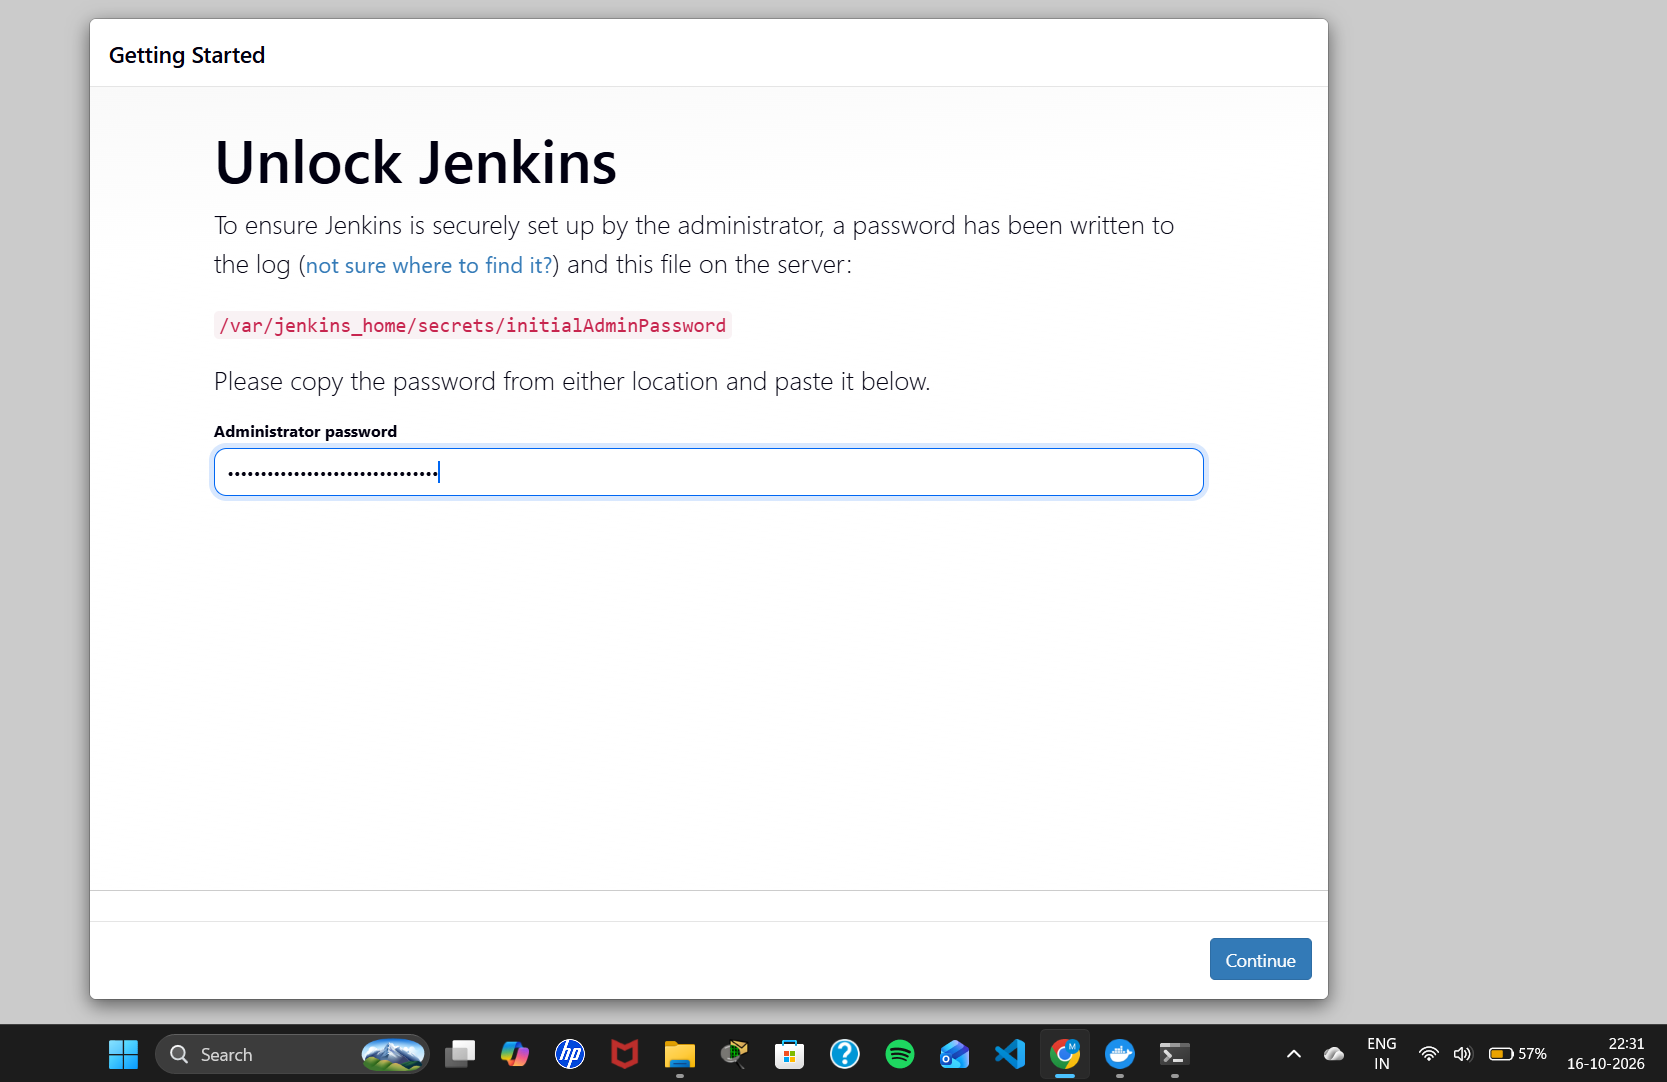
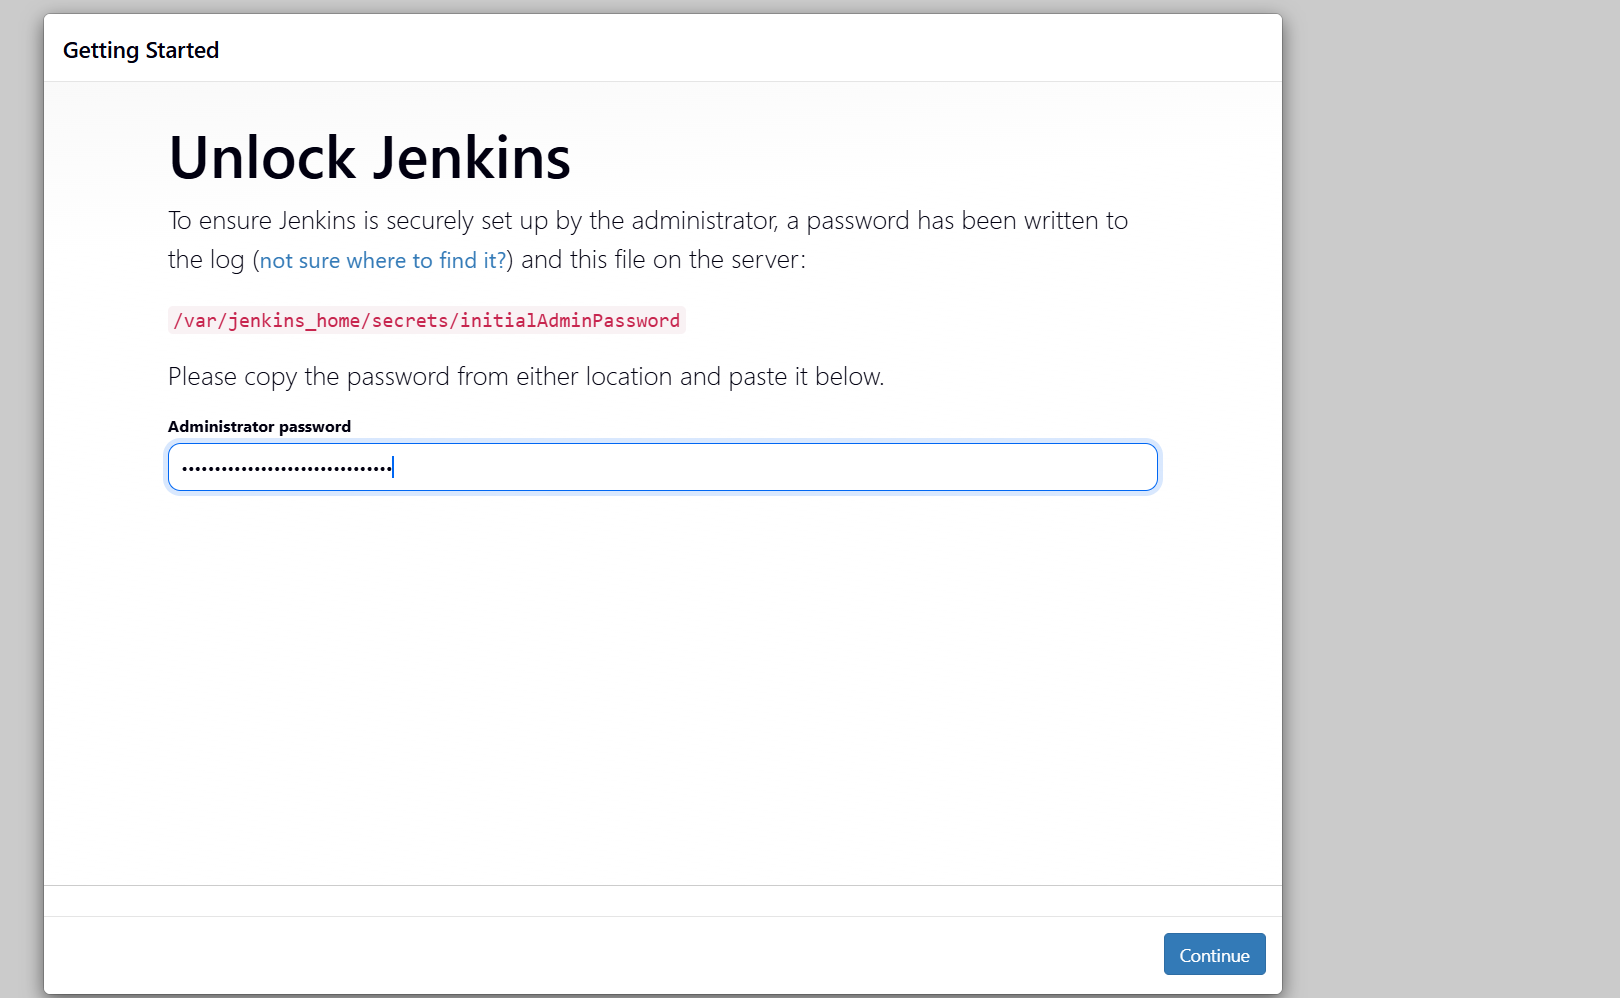
Ex7: run Jenkins and read password exactly as in manual

Changed region(s): [[0.0, 0.0, 1.0, 1.0], [0.0926, 0.1242, 0.7407, 0.497]]

diff --git a/07-Jenkins-CI-Automation/README.md b/07-Jenkins-CI-Automation/README.md
@@ -24,16 +24,17 @@ Jenkins is an open-source automation server used to build, test and deploy softw
 
 ### 1. Run Jenkins in Docker
 ```bash
-docker run -d --name jenkins -p 8080:8080 -p 50000:50000 -v jenkins_home:/var/jenkins_home jenkins/jenkins:lts
-docker ps
+docker run -d --name jenkins -p 8080:8080 -p 50000:50000 jenkins/jenkins:lts
+docker ps -a
 ```
 - `-p 8080:8080`: Jenkins web UI
 - `-p 50000:50000`: agent communication port
-- `-v jenkins_home:/var/jenkins_home`: keeps Jenkins data across restarts
+- (Exercises 6, 8 and 9 reuse a Jenkins started with `-v jenkins_home:/var/jenkins_home` so jobs survive restarts)
 
 ### 2. Get the initial admin password
 ```bash
-docker exec jenkins cat /var/jenkins_home/secrets/initialAdminPassword
+docker exec -it <container-id> bash
+cat /var/jenkins_home/secrets/initialAdminPassword
 ```
 
 ### 3. Unlock Jenkins
